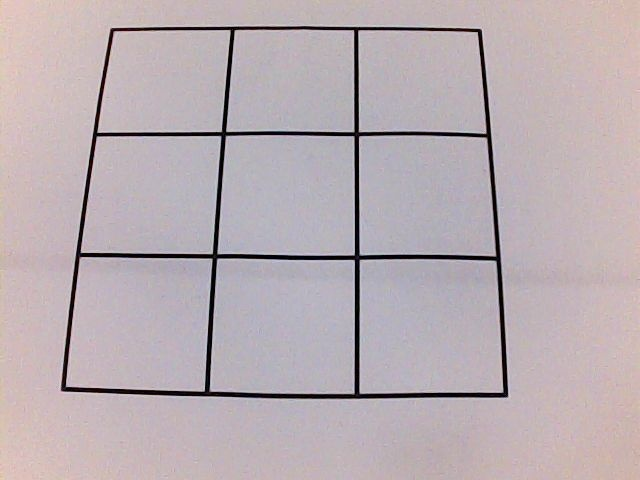
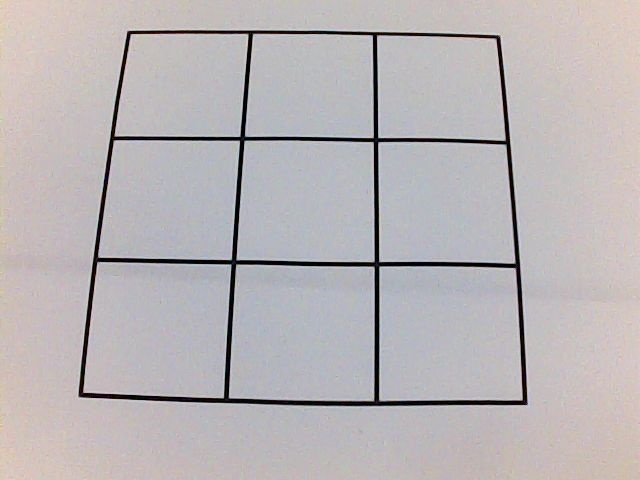
Calibrarea caroiajului small refăcută cu mâna (cub de 40 mm), referința camerei nouă
- calib.json: r0c0, r0c2, r2c0, r2c2 învățate cu gheara în jurul cubului; eroare de
  potrivire 0,7 mm. Mutarea din cameră nu ajungea: gheara cobora pe r2c2 în loc de r1c1
- mutare_foaie.py --ref-nou: salvează vederea de acum ca referință, fără calib.json
- calibrare-2026-10-29.md: de ce s-a refăcut, modelul „strânge” distanțele cu ~30%

Changed region(s): [[0.0938, 0.0312, 0.8438, 0.875]]

diff --git a/ai/scripts/calib_live/autocal/mutare_foaie.py b/ai/scripts/calib_live/autocal/mutare_foaie.py
@@ -10,6 +10,7 @@ peste modelul învățat al caroiajului (care mergea fizic la nivelul 0), iar im
 
     ai/.venv/bin/python ai/scripts/calib_live/autocal/mutare_foaie.py            # doar măsoară
     ai/.venv/bin/python ai/scripts/calib_live/autocal/mutare_foaie.py --aplica   # + scrie calib.json și noua referință
+    ai/.venv/bin/python ai/scripts/calib_live/autocal/mutare_foaie.py --ref-nou  # după o calibrare cu mâna: doar referința
 
 Precizia: ~2 mm cu aceleași unghiuri citite ca la referință; 1 grd diferență = ~10 px = 3-7 mm. Mutări mari (> ~1 celulă) sau rotiri mari
 cer recalibrarea cu mâna (`npm run calib -- celule small`): modelul învățat ar fi extrapolat prea departe.
@@ -76,11 +77,20 @@ def capture(service, preview):
 def main():
     ap = argparse.ArgumentParser()
     ap.add_argument("--aplica", action="store_true", help="scrie calib.json și imaginea de acum ca referință")
+    ap.add_argument("--ref-nou", action="store_true", help="salvează imaginea de acum ca referință (după `npm run calib -- celule small`)")
     ap.add_argument("--preview", default="http://127.0.0.1:8080")
     ap.add_argument("--service", default="http://127.0.0.1:8765")
     a = ap.parse_args()
     ref_img, ref_json = HERE / "ref/observe_small.jpg", HERE / "ref/observe_small.json"
     img, obs, now = capture(a.service, a.preview)
+    if a.ref_nou:
+        for src in (ref_img, ref_json):
+            if src.exists():
+                shutil.copy(src, src.with_name(src.stem + ".prev" + src.suffix))
+        cv2.imwrite(str(ref_img), img)
+        json.dump(obs, open(ref_json, "w"), indent=1)
+        print(f"Referință nouă salvată (unghiuri citite {obs['read_joints']}); calib.json neatins.")
+        return
     ref_obs = json.load(open(ref_json))
     if obs["read_joints"] != ref_obs.get("read_joints"):
         print(f"ATENȚIE: unghiuri citite {obs['read_joints']}, la referință {ref_obs.get('read_joints')}: "
